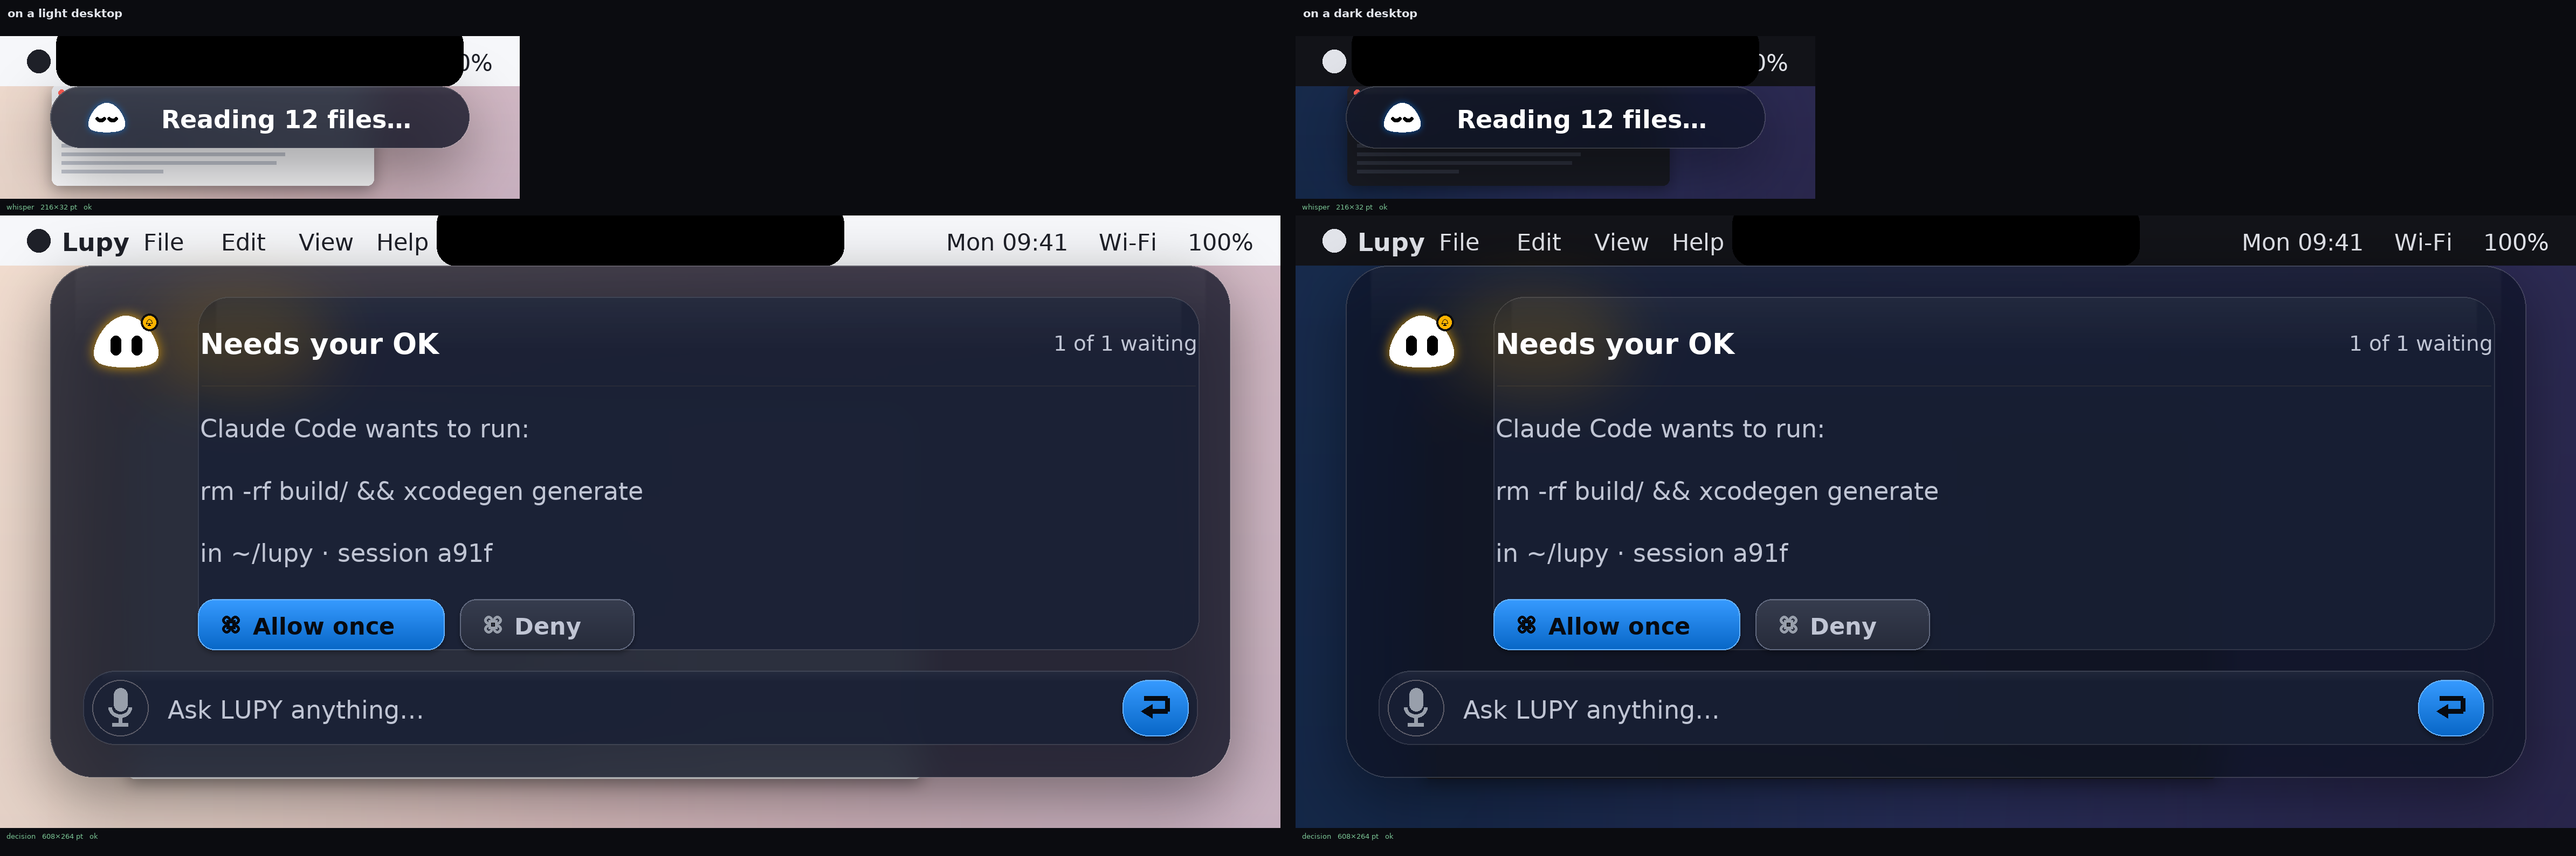
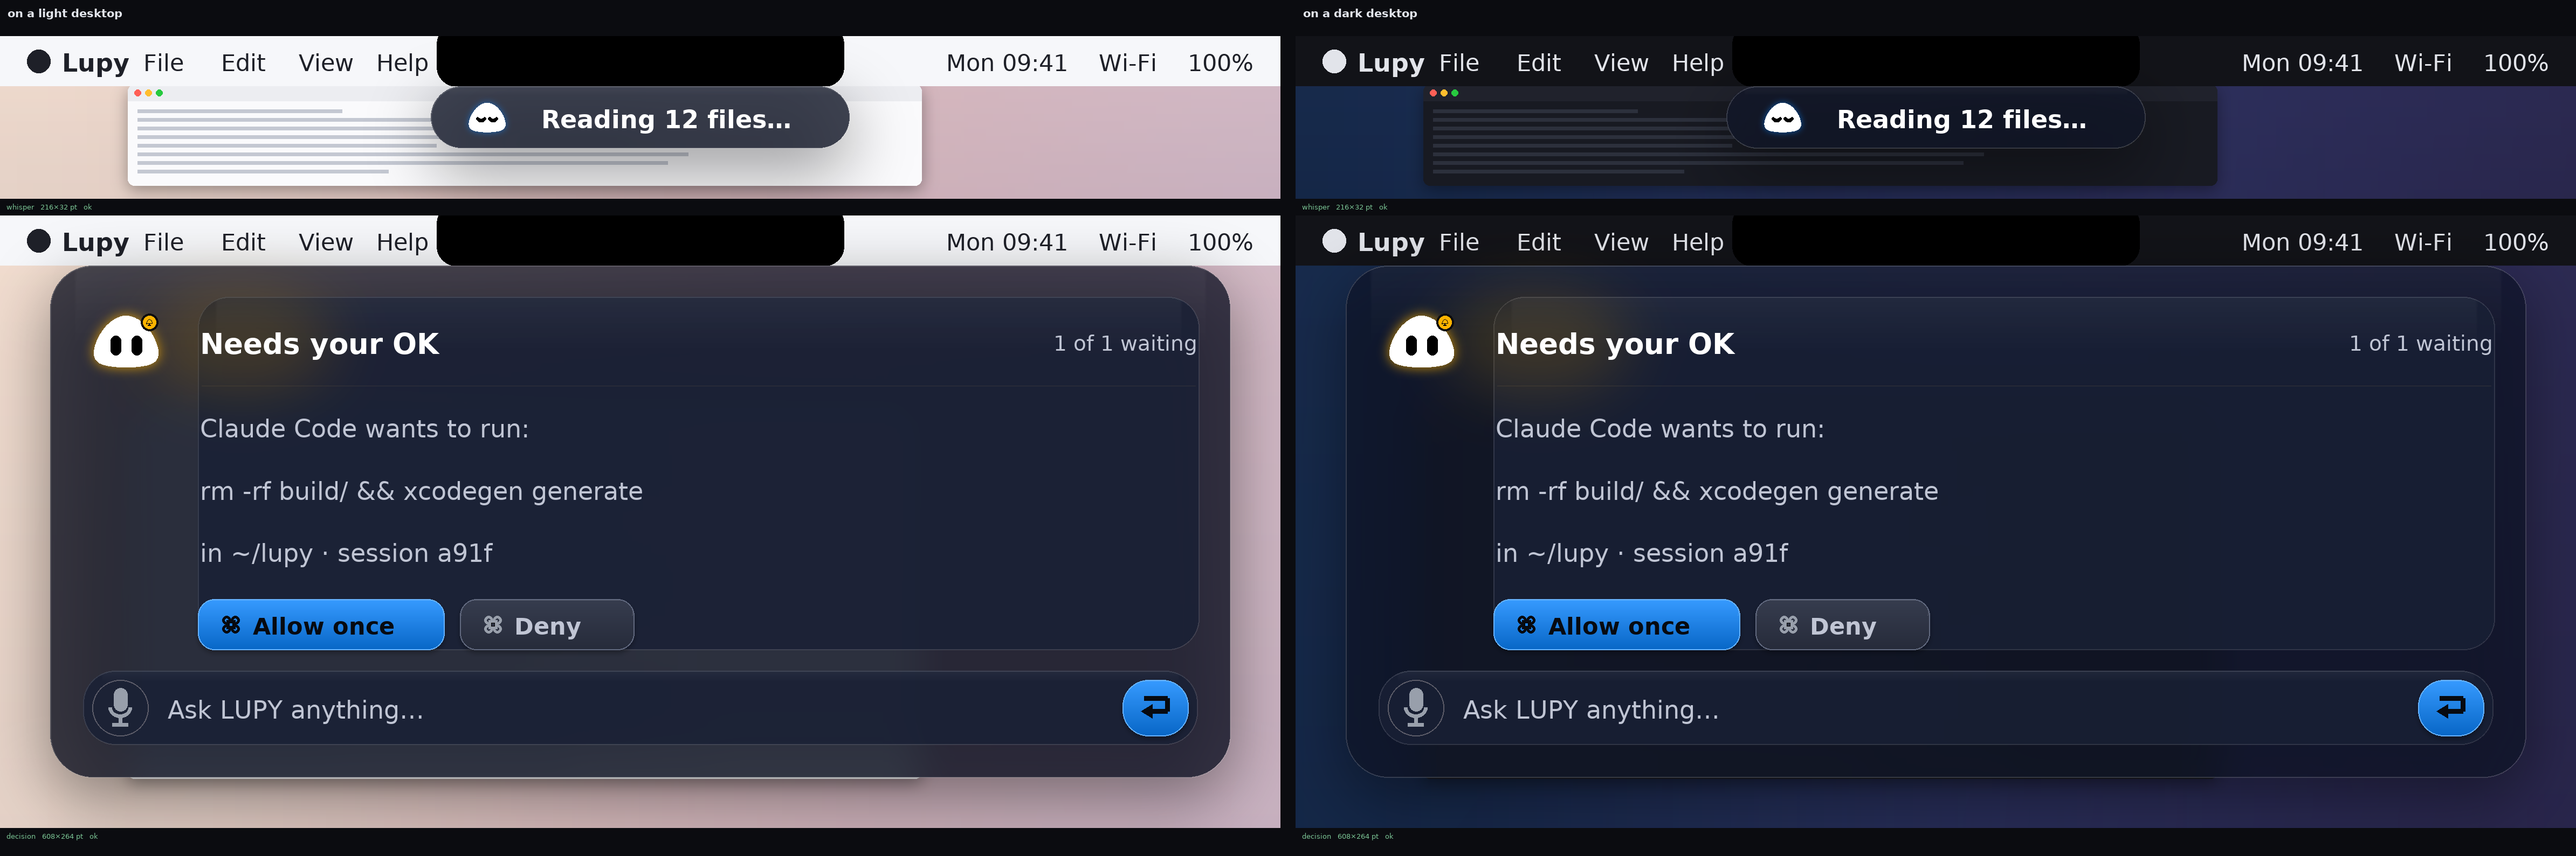
Renderer: one shared screen width per sheet so every menu bar runs edge to edge

Changed region(s): [[0.0, 0.0308, 1.0, 0.2467]]

diff --git a/tools/ui/render_island.py b/tools/ui/render_island.py
@@ -351,11 +351,20 @@ def icon_command(d, cx, cy, s, colour):
 
 # --------------------------------------------------------------------- the scene
 
-def draw_scene(doc, canvas, rig, kind, pp, context=True, below=26):
-    """One island, hanging from a menu bar over a desktop. Returns RGB at pp*SS px/pt."""
+def scene_width_pt(canvas):
+    """The screen width, in points, this canvas wants when drawn alone."""
+    return int(canvas["w"]) + 52
+
+
+def draw_scene(doc, canvas, rig, kind, pp, context=True, below=26, min_w=None):
+    """One island, hanging from a menu bar over a desktop. Returns RGB at pp*SS px/pt.
+    min_w (points) lets a sheet share one screen width, so every row's menu bar
+    runs edge to edge instead of being chopped to the island's own width."""
     ss = SS * pp
     w, h, corner = canvas["w"], canvas["h"], canvas["corner"]
     side = 26
+    if min_w and w + 2 * side < min_w:
+        side += (min_w - (w + 2 * side)) // 2
     top = MENUBAR if context else 0
     W = int((w + 2 * side) * ss)
     H = int((top + h + below) * ss)
@@ -535,10 +544,12 @@ def fit(text, font, avail, d):
 
 # --------------------------------------------------------------------- sheets
 
-def stack(doc, rig, ids, kind, pp, title=None, note=None, gap=18):
-    tiles = [draw_scene(doc, c, rig, kind, pp) for c in
-             sorted([c for c in doc["canvases"] if c["id"] in ids],
-                    key=lambda c: ids.index(c["id"]))]
+def stack(doc, rig, ids, kind, pp, title=None, note=None, gap=18, min_w=None):
+    cs = sorted([c for c in doc["canvases"] if c["id"] in ids],
+                key=lambda c: ids.index(c["id"]))
+    if min_w is None:
+        min_w = max(scene_width_pt(c) for c in cs)
+    tiles = [draw_scene(doc, c, rig, kind, pp, min_w=min_w) for c in cs]
     lab = int(26 * pp)
     W = max(t.size[0] for t in tiles)
     head = int(56 * pp) if title else 0
@@ -568,7 +579,10 @@ def stack(doc, rig, ids, kind, pp, title=None, note=None, gap=18):
 
 def columns(doc, rig, groups, pp, title=None, note=None):
     """Side-by-side columns of stacked tiles — used for the light/dark pair."""
-    cols = [stack(doc, rig, ids, k, pp, title=cap) for (ids, k, cap) in groups]
+    allc = [c for (ids, k, cap) in groups for c in doc["canvases"] if c["id"] in ids]
+    min_w = max(scene_width_pt(c) for c in allc)
+    cols = [stack(doc, rig, ids, k, pp, title=cap, min_w=min_w)
+            for (ids, k, cap) in groups]
     gap = int(24 * pp)
     W = sum(c.size[0] for c in cols) + gap * (len(cols) - 1)
     H = max(c.size[1] for c in cols)
@@ -582,10 +596,10 @@ def columns(doc, rig, groups, pp, title=None, note=None):
 
 def grid(doc, rig, pp, cols=2, ids=None, title=None, note=None):
     tiles = []
-    for c in doc["canvases"]:
-        if ids and c["id"] not in ids:
-            continue
-        tiles.append((draw_scene(doc, c, rig, "dark", pp), c))
+    cs = [c for c in doc["canvases"] if not ids or c["id"] in ids]
+    min_w = max(scene_width_pt(c) for c in cs) if cs else None
+    for c in cs:
+        tiles.append((draw_scene(doc, c, rig, "dark", pp, min_w=min_w), c))
     lab = int(24 * pp)
     colw, rowh = {}, {}
     for i, (t, _) in enumerate(tiles):
